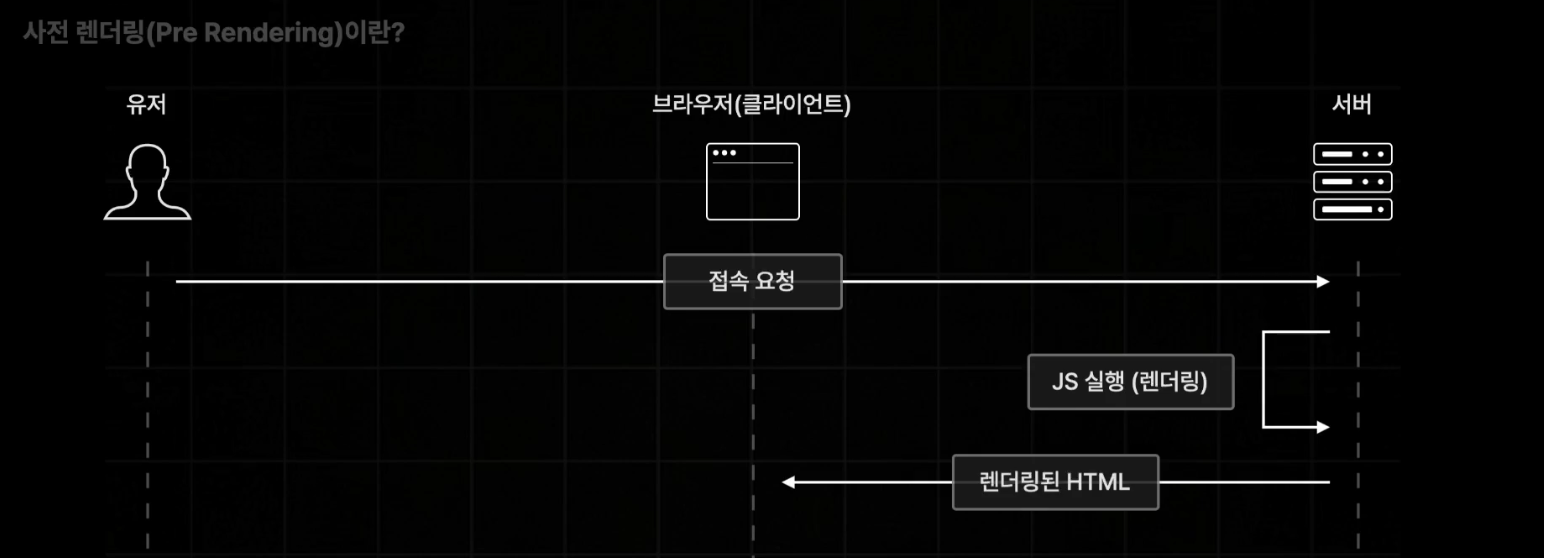
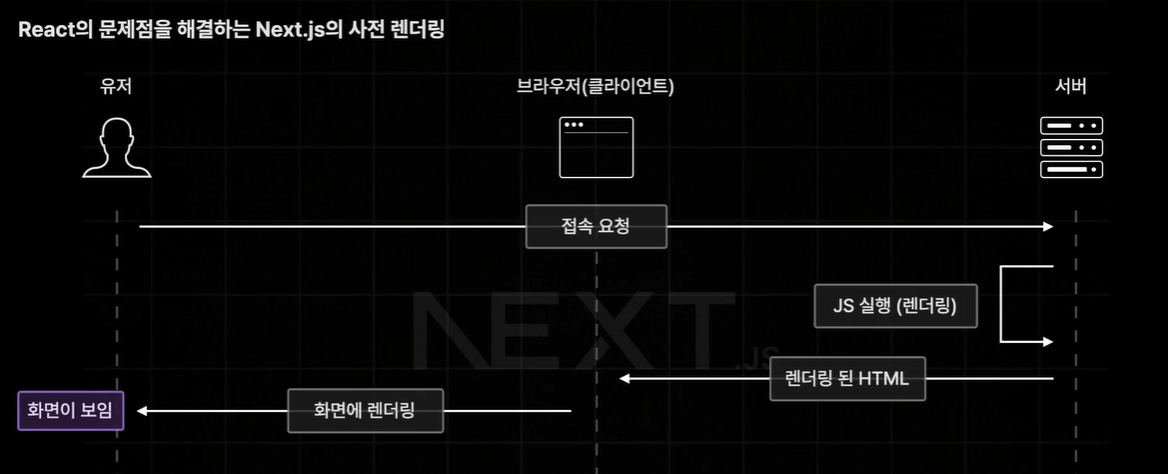
feat: next.js chapter1

diff --git a/next/chapter1.md b/next/chapter1.md
@@ -34,12 +34,78 @@ e.g. Page Routing, Optimizations, Server Pre Rendering 등 기본 제공
 
 ## 2. Next.js 사전렌더링 이해하기
 
-### 사전 렌더링이란?
+### CSR(Client Side Rendering)
 
-![이미지](../assets/1_!.png)
+![이미지](../assets/1_2.png)
+
+- 기존의 리액트 앱의 CSR(Client Side Rendering)은 초기 접속 이후 페이지 이동을 빠르게 처리 가능 but 초기 접속이 느리다.
+
+### 사전렌더링
+
+![이미지](../assets/1_1.jpg)
 
 - 브라우저의 요청에 사전에 렌더링이 완료된 HTML을 응답하는 렌더링 방식
 - Client Side Rendering의 단점을 효율적으로 해결하는 기술
-- 기존의
+- JS 코드가 html에 적용되는 Hydration /
+
+![이미지](../assets/1_3.jpg)
 
 ## 3. 실습용 백엔드 서버 세팅하기
+
+### 초기 설정
+
+- 실전과 같은 환경에서 공부할 수 있도록 백엔드 서버 세팅하기  
+  (1) [실습용 백엔드 서버](https://github.com/winterlood/onebite-books-server)  
+  (2) [Supabase](https://supabase.com/)
+
+```bash
+// 의존성 설치하기
+npm i
+
+// DB를 초기화하기
+npx prisma db push
+
+// => ✔ Generated Prisma Client (v5.13.0) to .\node_modules\@prisma\client in 51ms
+
+
+```
+
+![이미지](../assets/1_4.jpg)
+
+- supabase에 DB가 생성된 것을 확인할 수 있다.
+
+### 초기 데이터 넣기
+
+```bash
+// 초기 데이터 추가하기
+npm run seed
+```
+
+![이미지](../assets/1_5.jpg)
+
+- 추가 데이터가 생성되었다.
+
+### 실행하기
+
+```bash
+npm run build
+
+npm run start
+```
+
+- 'localhost:12345' 접속시 사용 가능
+- 'localhost:12345/api' 접속시 API 문서 확인 가능
+- `npx prisma studio`를 통해서 DB를 사용 가능
+
+## 4. 본격적인 학습에 앞서
+
+(1) Next.js란 어떤 기술인지?
+(2) 사전 렌더링이란?
+(3) 백엔드 설정
+
+### Next.js에서 제공하는 라우터
+
+- 페이지 라우터 : Next 초창기부터 제공되어 오던 구 버전의 라우터
+
+- 앱 라우터 : Next 13버전과 함께 처음으로 공개된 신규 라우터
+  다양한 신규 기능이 제공된다. ( 서버 컴포넌트 등...)

diff --git a/next/README.md b/next/README.md
@@ -8,3 +8,22 @@
 - [ ] Next.js 사전렌더링 이해하기
 - [ ] 실습용 백엔드 서버 세팅하기
 - [ ] 본격적인 학습에 앞서
+
+### chapter2
+
+- [ ] Page Router를 소개합니다.
+- [ ] 페이지 라우팅 설정하기
+- [ ] 네비게이팅
+- [ ] 프리페칭
+- [ ] API Routes
+- [ ] 스타일링
+- [ ] 글로벌 레이아웃 설정하기
+- [ ] 페이지별 레이아웃 설정하기
+- [ ] 한입북스 UI 구현하기
+- [ ] 사전 렌더링과 데이터페칭
+- [ ] SSR
+- [ ] SSG
+- [ ] ISR
+- [ ] SEO 설정하기
+- [ ] 배포하기
+- [ ] 페이지 라우터 정리
